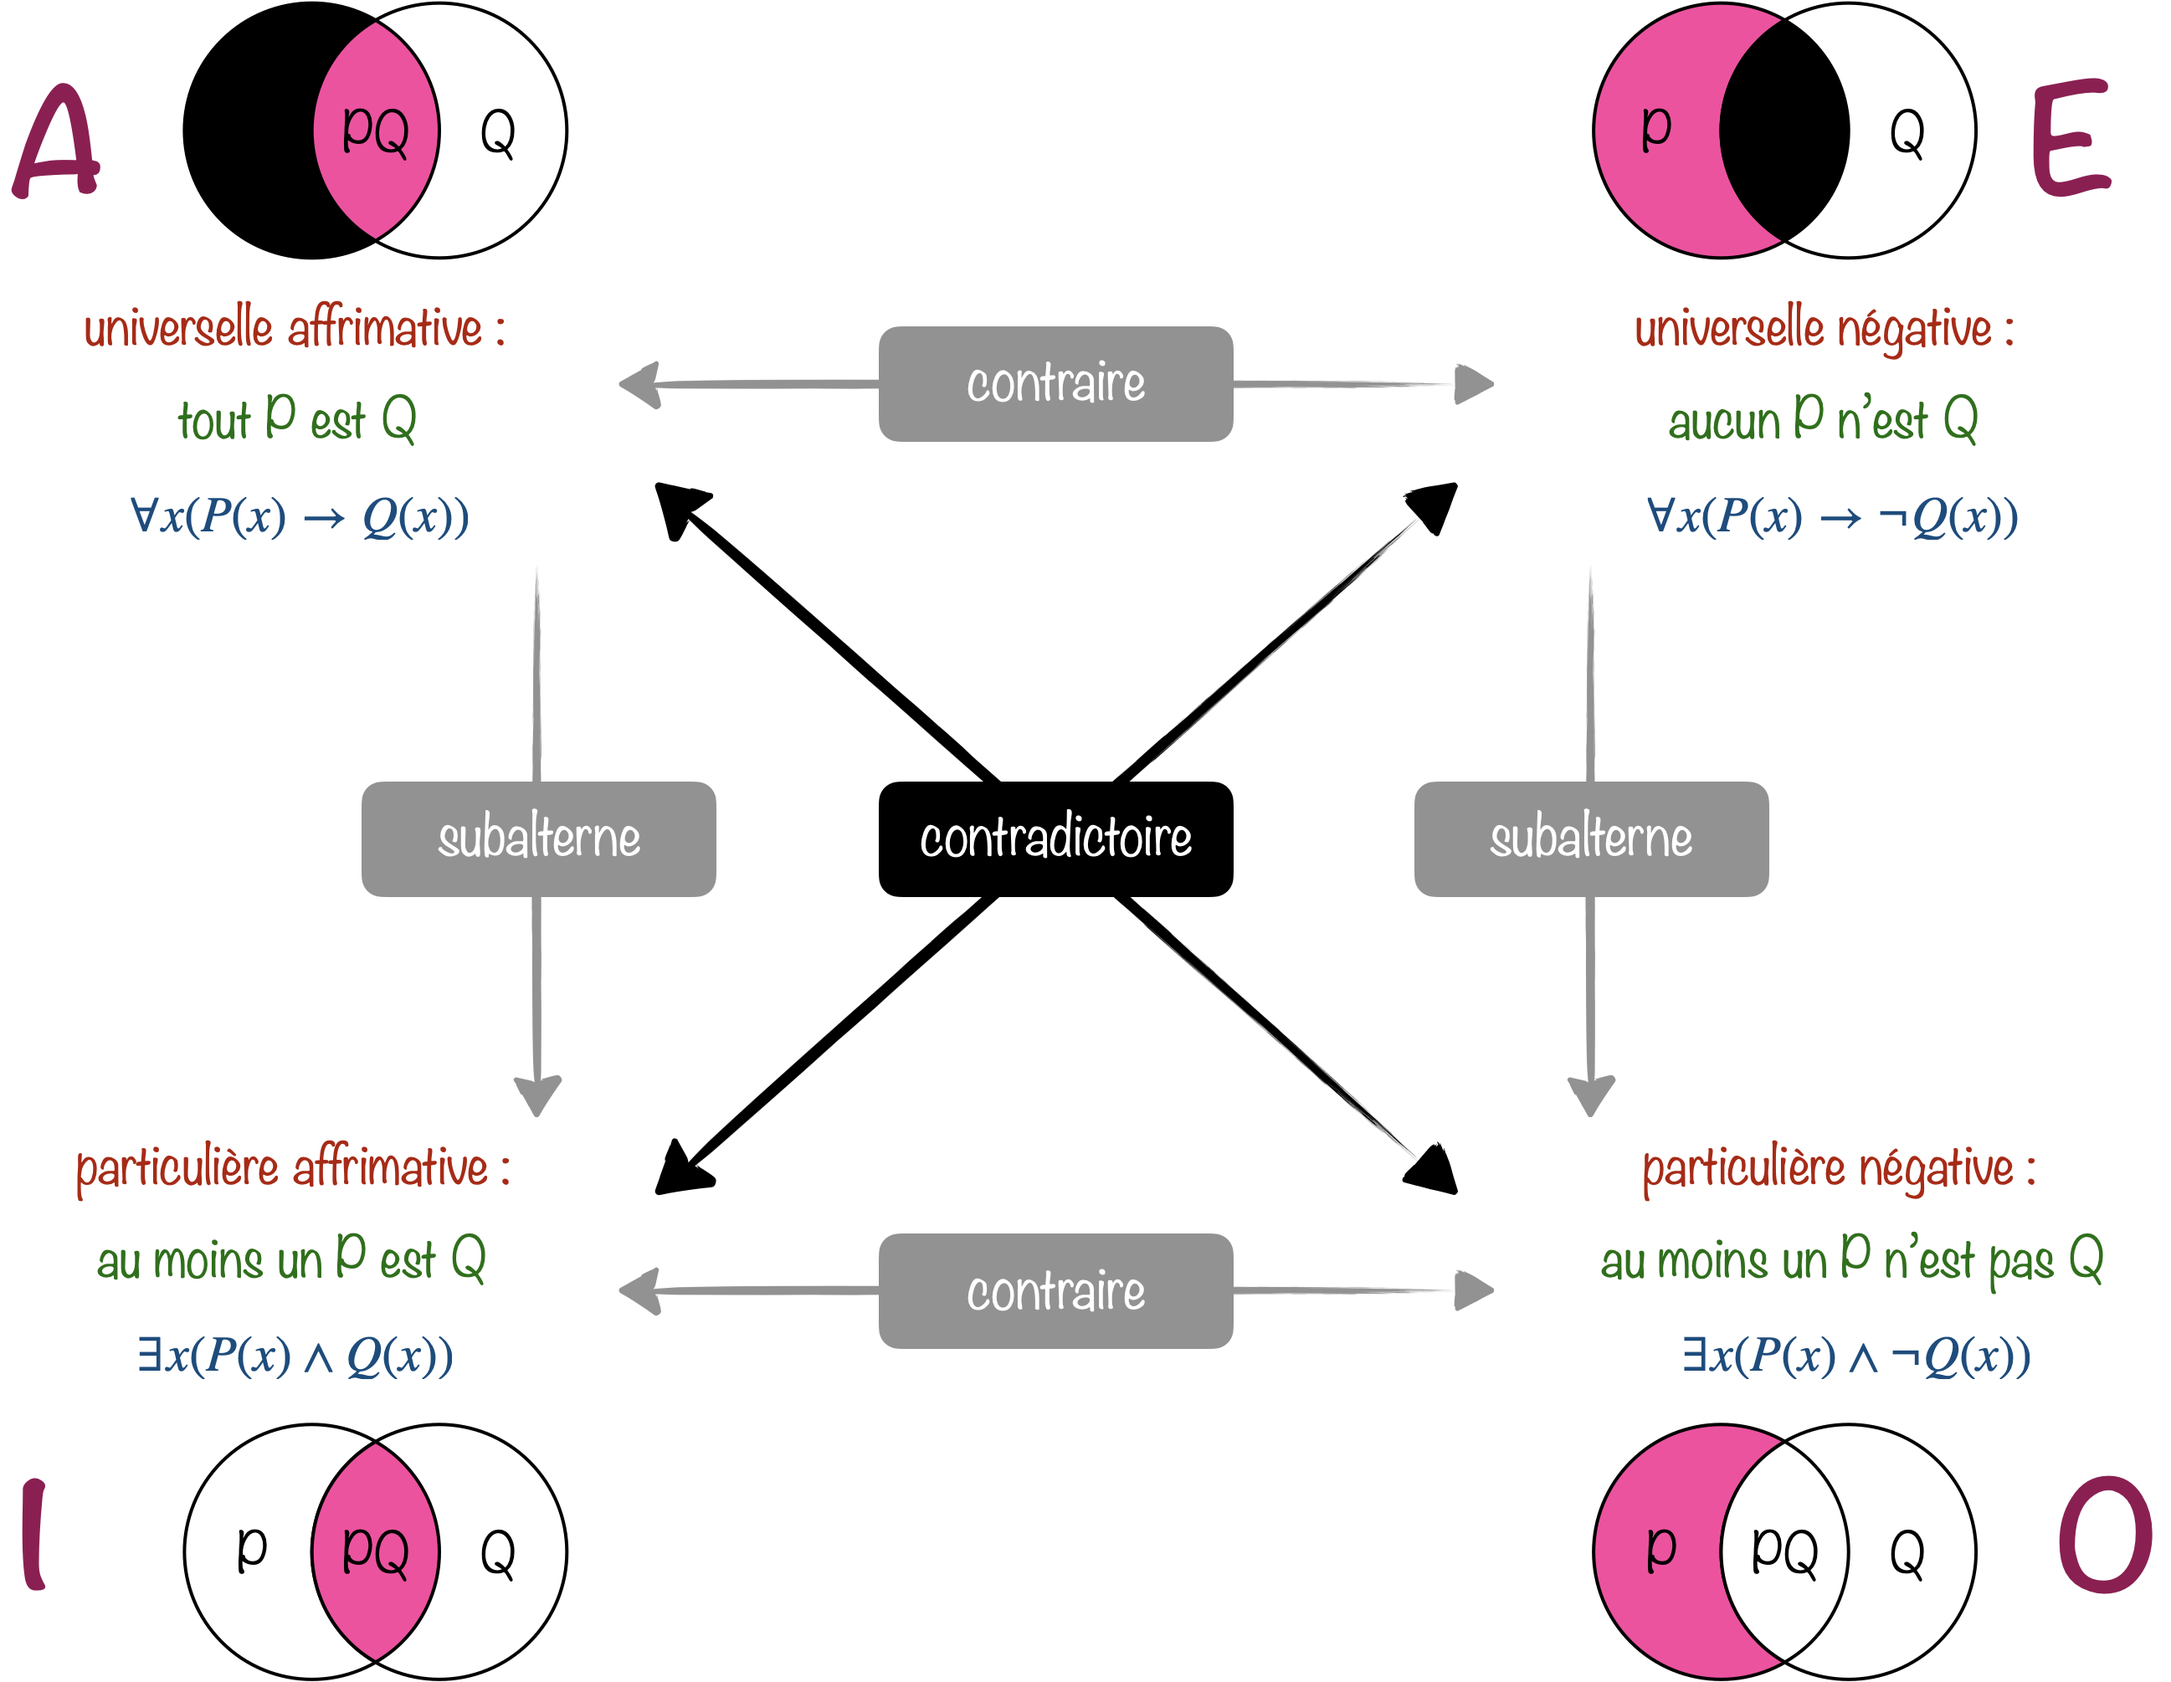
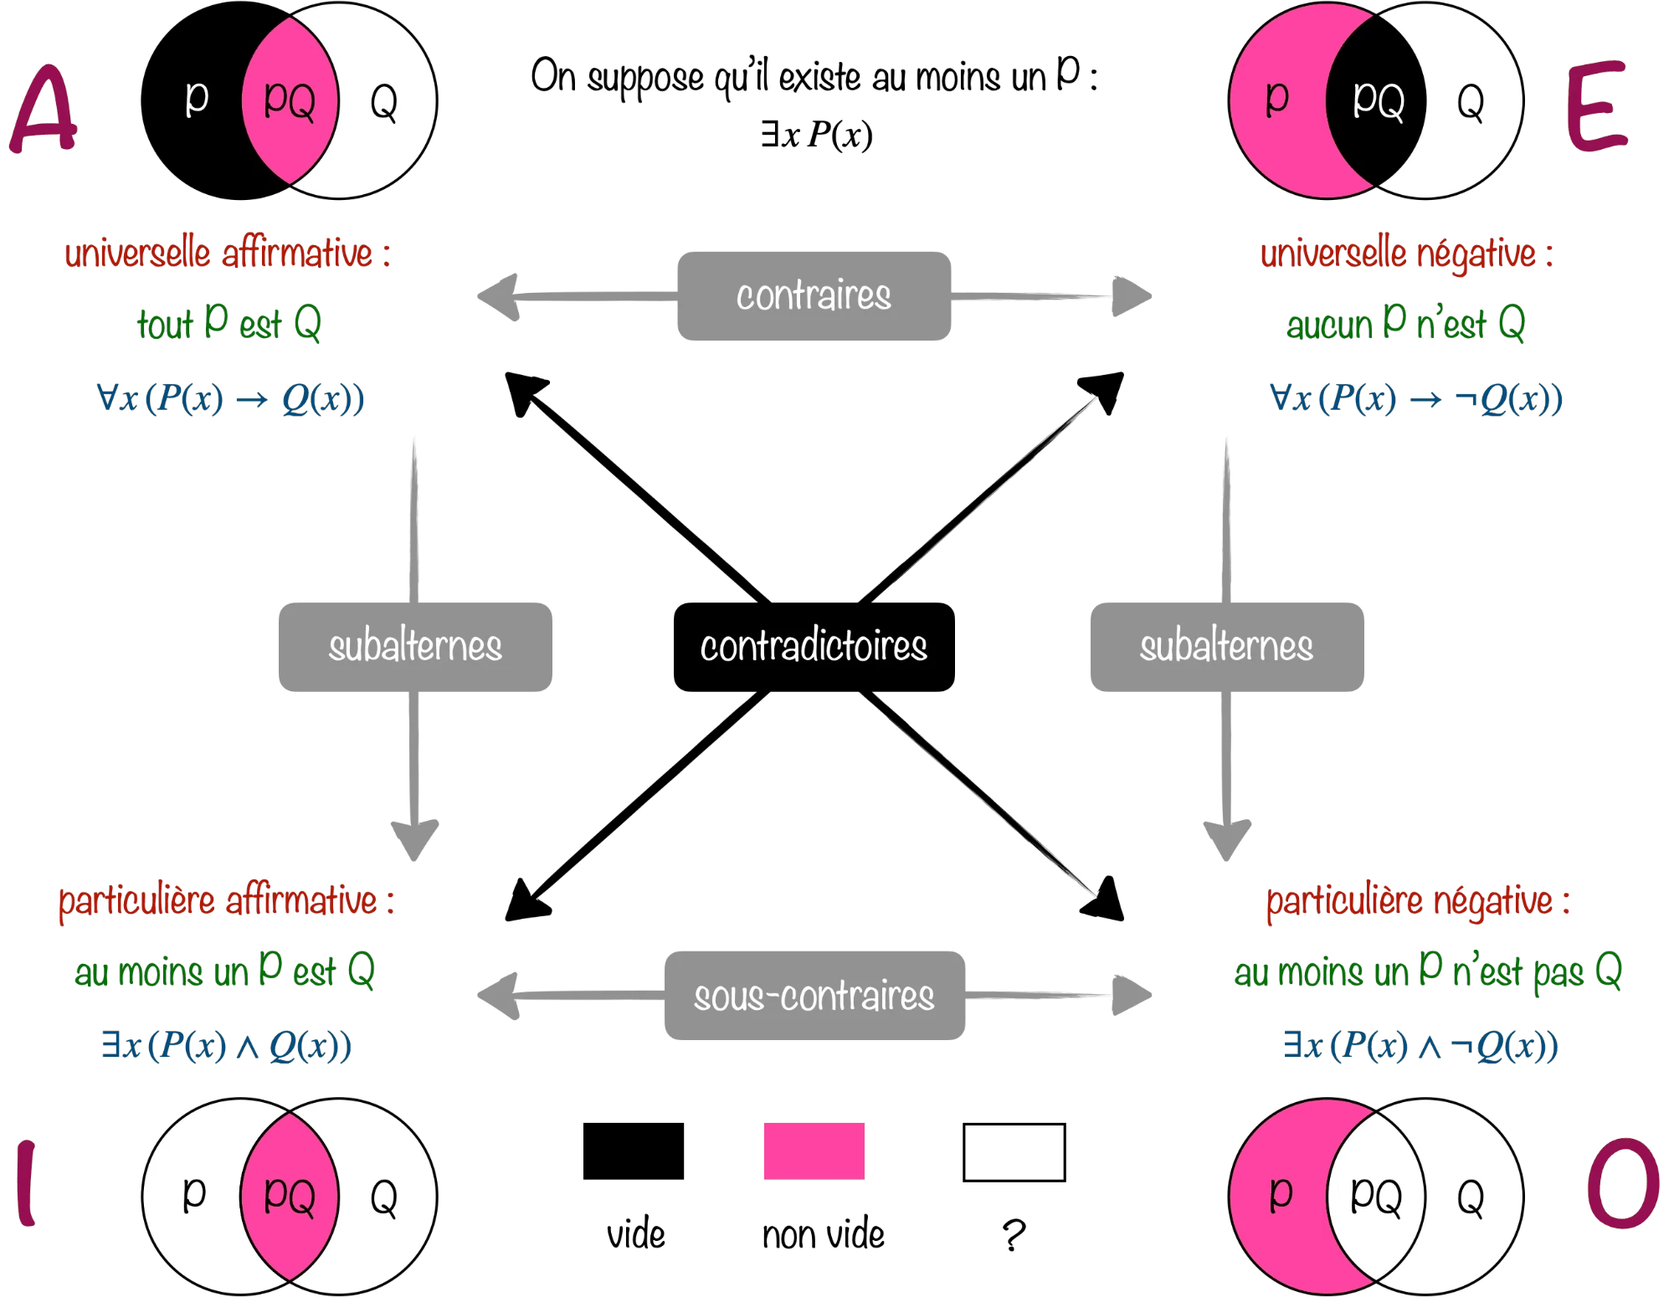
Prédicats : carré d'Aristote, et espaces fines restaurées dans les formules
- Nouvelle sous-section « Le carré d'Aristote » (figure corrigée, avec
  l'hypothèse d'existence et la légende des couleurs), suivie de
  l'encadré « Le carré et les dragons » sur la portée existentielle.
- Lien depuis l'hexagone de la logique aléthique.
- Dans les paragraphes markdown, \, était lu comme un échappement et
  rendu par une virgule : 23 occurrences doublées sur les deux pages.

Claude-Session: https://claude.ai/code/session_01DJSfAc51DbSuZyGMnUWnZh

diff --git a/content/logique/predicats/preuve.md b/content/logique/predicats/preuve.md
@@ -132,7 +132,7 @@ Le calcul des prédicats a donc ses preuves (le symbole $\vdash$) et sa sémanti
 
 Tout ce qui est vrai dans toutes les structures se démontre, et rien d'autre. La question avait été posée en 1928 par David Hilbert et Wilhelm Ackermann dans leur manuel de logique. Kurt Gödel, 23 ans, y répond l'année suivante dans sa thèse de doctorat à Vienne.
 
-La preuve qu'on enseigne aujourd'hui, due à Leon Henkin (1949), suit la même idée que la [complétude des logiques modales](../../modale/systemes/#pourquoi-cest-complet)&nbsp;: fabriquer une structure à partir de la syntaxe elle-même. Les objets du domaine sont les termes du langage, et, pour que chaque «&nbsp;il existe&nbsp;» ait de quoi se réaliser, on ajoute au langage une nouvelle constante, un témoin, pour chaque formule $\exists x\,\phi(x)$.
+La preuve qu'on enseigne aujourd'hui, due à Leon Henkin (1949), suit la même idée que la [complétude des logiques modales](../../modale/systemes/#pourquoi-cest-complet)&nbsp;: fabriquer une structure à partir de la syntaxe elle-même. Les objets du domaine sont les termes du langage, et, pour que chaque «&nbsp;il existe&nbsp;» ait de quoi se réaliser, on ajoute au langage une nouvelle constante, un témoin, pour chaque formule $\exists x\\,\phi(x)$.
 
 {{% notice type="piege" round="true" %}}
 **Complétude et incomplétude ne se contredisent pas**, malgré les noms et l'auteur commun. Le théorème de complétude (1929) dit que les règles de preuve attrapent toutes les **conséquences logiques** d'un ensemble d'axiomes. Les théorèmes d'incomplétude (1931) disent qu'un ensemble d'axiomes pour l'arithmétique ne **décide** jamais tous les énoncés&nbsp;: il en reste qui ne sont ni démontrables ni réfutables. Les deux se concilient très bien&nbsp;: un tel énoncé est vrai dans certaines structures qui satisfont les axiomes et faux dans d'autres, donc il n'est pas une conséquence logique des axiomes, et la complétude n'oblige pas à le démontrer.
@@ -197,7 +197,7 @@ Une **théorie** est un ensemble d'énoncés qu'on prend pour axiomes. La plus c
 
 La récurrence pose le problème annoncé au début. Faute de pouvoir dire «&nbsp;pour toute propriété&nbsp;», on l'écrit sous forme de **schéma**&nbsp;: un axiome distinct pour chaque formule $\phi(x)$,
 
-$$\big(\phi(0)\land\forall x\,(\phi(x)\rightarrow\phi(x+1))\big)\rightarrow\forall x\,\phi(x).$$
+$$\big(\phi(0)\land\forall x\\,(\phi(x)\rightarrow\phi(x+1))\big)\rightarrow\forall x\\,\phi(x).$$
 
 Les formules sont dénombrables, alors que les propriétés des entiers (les ensembles d'entiers) ne le sont pas. Le schéma laisse donc échapper l'immense majorité des propriétés, et c'est par cette brèche que s'engouffrent les modèles non standard.
 

diff --git a/content/logique/modale/logiques.md b/content/logique/modale/logiques.md
@@ -50,7 +50,7 @@ La logique modale est dite **aléthique** lorsque les opérateurs modaux traduis
 
 Les trois cellules rectangulaires sont destinées à être conjointement exhaustives et mutuellement exclusives&nbsp;: chaque proposition peut être nécessaire, contingente (possiblement vraie mais aussi possiblement fausse), ou encore impossible, mais jamais plus qu'un de ces trois choix.
 
-On peut en déduire l'hexagone logique suivant, extension du carré des oppositions d'Aristote, dû à Sesmat et Blanché&nbsp;:
+On peut en déduire l'hexagone logique suivant, extension du [carré des oppositions d'Aristote](../../predicats/langage/#le-carré-daristote), dû à Sesmat et Blanché&nbsp;:
 
 ![](/hexalethique.png?width=750px)
 
